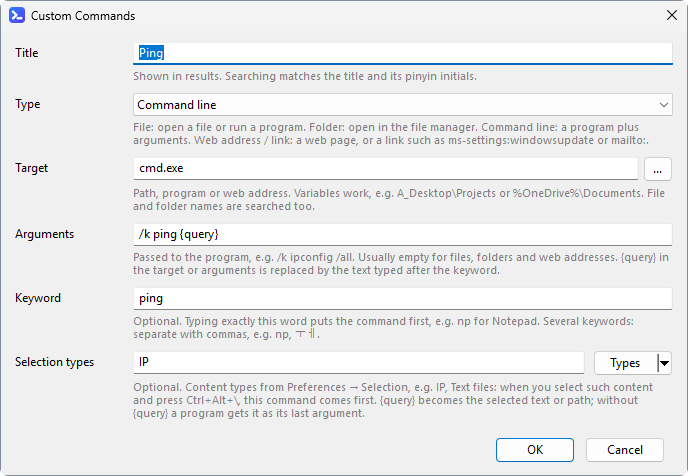
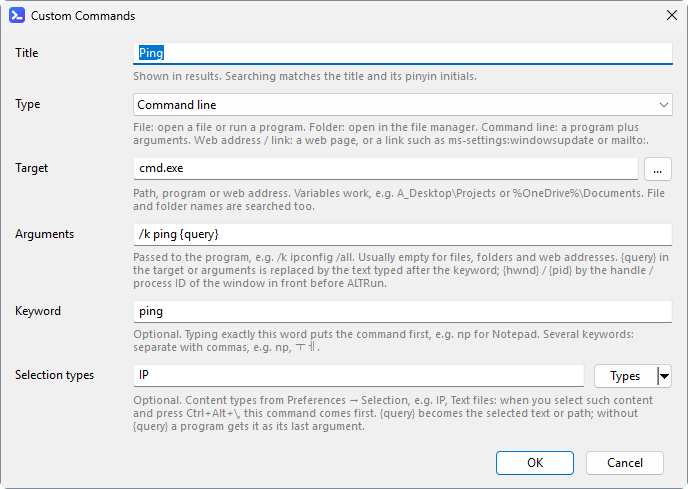
Fill In {hwnd} and {pid} of the Window in Front When a Custom Command Runs (Test Build 2026.11.11.3) (#451)
Custom commands can use {hwnd} / {pid} in the target or arguments: the handle and process ID of the window in front before ALTRun was shown, filled in each time the command runs (also from the selection actions panel and for pinned or recently used entries). Empty when that window is gone. Refs #445

diff --git a/docs/wiki/Custom-Commands.md b/docs/wiki/Custom-Commands.md
@@ -56,6 +56,16 @@ Put `{query}` in the target or arguments and give the command a keyword; typing 
 
 A new installation already has four examples among the default commands: Ping, Google Maps, Send Email (`mailto:{query}`; the address keeps its `@`) and Documents subfolder (`docs folder-name` opens a subfolder of Documents). When you find such a command by its name, the line below it says what to type (for example "Type after 'ping ', then press Enter"), and `Enter` completes it to "keyword " so you can type the argument. Without a keyword, `{query}` is replaced by nothing. "Check Paths" skips paths containing `{query}`.
 
+## The window you came from ({hwnd}, {pid})
+`{hwnd}` and `{pid}` in the target or arguments become the handle and the process ID (in decimal) of the window that was in front before you opened ALTRun, so a script can work on that window, for example find the file it has open:
+
+| Name | Type | Target | Arguments |
+|---|---|---|---|
+| Window info | Command line | `C:\Tools\WindowInfo.ahk` | `{hwnd}` |
+| Process details | Command line | `powershell.exe` | `-NoExit -Command Get-Process -Id {pid} \| Format-List *` |
+
+In an AutoHotkey script, `WinGetTitle("ahk_id " A_Args[1])` reads that window. Prefer `{hwnd}` to `{pid}`: one program often has several windows, and the handle is the one you were using. They are filled in each time the command runs, also from the actions panel for selected content (`Ctrl+Alt+\`) and when it's pinned or recently used. If that window has been closed meanwhile (or ALTRun was opened from the tray with no window in front), both become empty. "Check Paths" skips paths containing them.
+
 ## Variables in paths
 | Write | Meaning |
 |---|---|

diff --git a/docs/wiki/Custom-Commands-zh.md b/docs/wiki/Custom-Commands-zh.md
@@ -56,6 +56,16 @@
 
 新安装时默认命令里已经有 Ping、Google Maps、Send Email (`mailto:{query}`; 地址里的 `@` 不编码) 和 Documents subfolder (`docs 文件夹名` 打开 "文档" 里的子文件夹) 四个例子。只输入名称搜到这条命令时, 下面一行会说明接着输入什么 (例如 "在 'ping ' 后面输入内容, 再按 Enter"), 按 `Enter` 补全成 "关键字 ", 接着输入参数。没有关键字时 `{query}` 换成空。"检查路径" 不检查带 `{query}` 的路径。
 
+## 呼出 ALTRun 之前的窗口 ({hwnd}, {pid})
+目标或参数里的 `{hwnd}` 和 `{pid}` 会换成呼出 ALTRun 之前前台窗口的句柄和进程 ID (十进制), 脚本可以拿它对这个窗口做后续操作, 例如取它打开的文件:
+
+| 名称 | 类型 | 目标 | 参数 |
+|---|---|---|---|
+| 窗口信息 | 命令行 | `C:\Tools\WindowInfo.ahk` | `{hwnd}` |
+| 进程详情 | 命令行 | `powershell.exe` | `-NoExit -Command Get-Process -Id {pid} \| Format-List *` |
+
+AutoHotkey 脚本里用 `WinGetTitle("ahk_id " A_Args[1])` 就能读这个窗口。建议用 `{hwnd}` 而不是 `{pid}`: 同一个程序常有好几个窗口, 句柄才是你刚才在用的那一个。每次运行命令时才填入, 从选中内容的动作面板 (`Ctrl+Alt+\`) 运行、置顶或最近使用的条目也一样。那个窗口已经关掉 (或者从托盘打开 ALTRun, 前台没有窗口) 时两个都换成空。"检查路径" 不检查带它们的路径。
+
 ## 路径里可以用的变量
 | 写法 | 含义 |
 |---|---|

diff --git a/CHANGELOG.md b/CHANGELOG.md
@@ -5,6 +5,15 @@
 
 ## [未发布]
 
+## [2026.11.11.3]
+
+测试版。
+
+Test build.
+
+### 新增
+- 自定义命令的目标或参数里可以写 `{hwnd}` 和 `{pid}` (#445): 运行时换成呼出 ALTRun 之前前台窗口的句柄和进程 ID (十进制), 脚本可以拿它对这个窗口做后续操作 (例如取它打开的文件)。从选中内容的动作面板 (`Ctrl+Alt+\`) 运行、置顶或最近使用的条目也是每次运行时才填入当时的窗口; 那个窗口已经关掉时换成空。见 Wiki [自定义命令](https://github.com/zhugecaomao/ALTRun/wiki/Custom-Commands-zh)
+
 ## [2026.11.11.2]
 
 测试版。
@@ -1229,7 +1238,8 @@ Smoother typing, easier to get started, and a few useful new features.
 ## 更早的版本
 见 [GitHub Releases](https://github.com/zhugecaomao/ALTRun/releases)。
 
-[未发布]: https://github.com/zhugecaomao/ALTRun/compare/2026.11.11.2...HEAD
+[未发布]: https://github.com/zhugecaomao/ALTRun/compare/2026.11.11.3...HEAD
+[2026.11.11.3]: https://github.com/zhugecaomao/ALTRun/compare/2026.11.11.2...2026.11.11.3
 [2026.11.11.2]: https://github.com/zhugecaomao/ALTRun/compare/2026.11.11.1...2026.11.11.2
 [2026.11.11.1]: https://github.com/zhugecaomao/ALTRun/compare/2026.11.11...2026.11.11.1
 [2026.11.11]: https://github.com/zhugecaomao/ALTRun/releases/tag/2026.11.11
